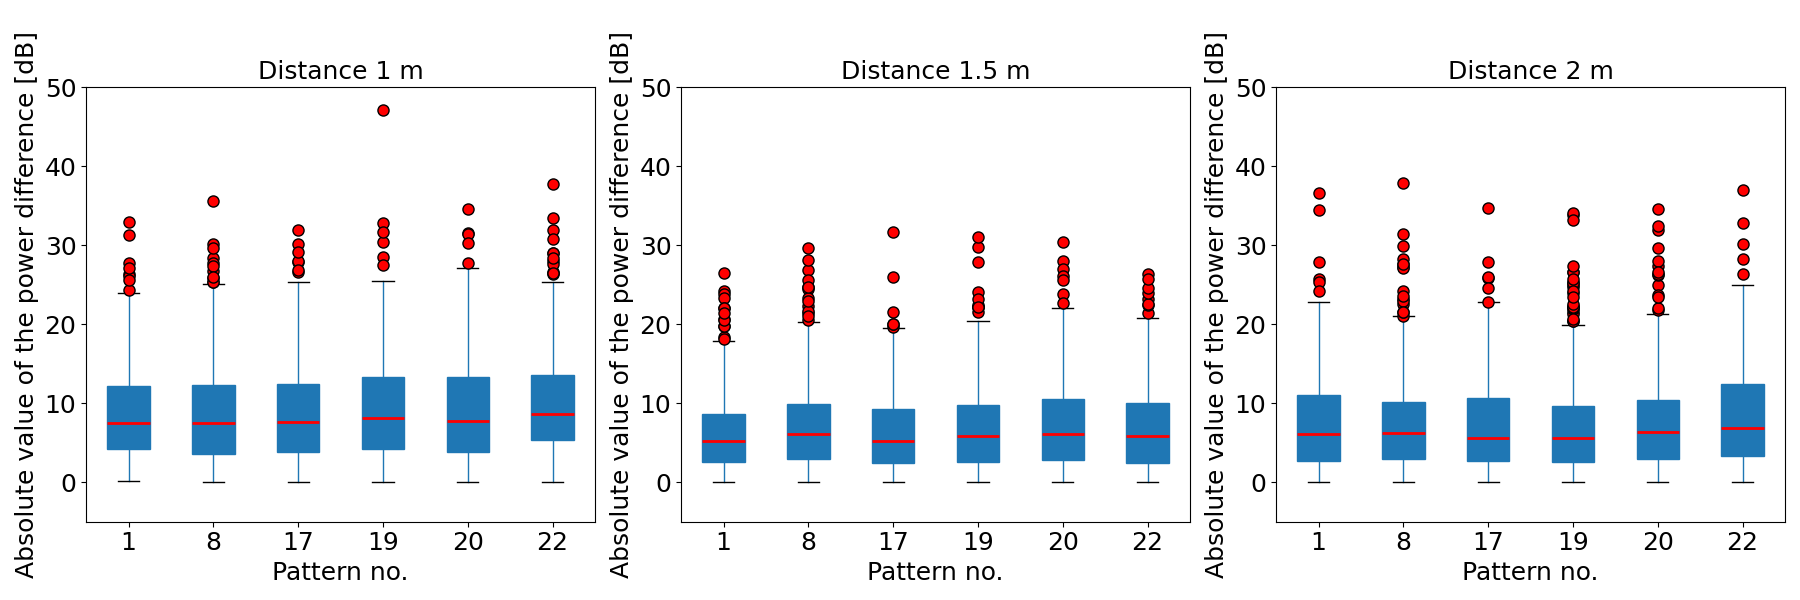
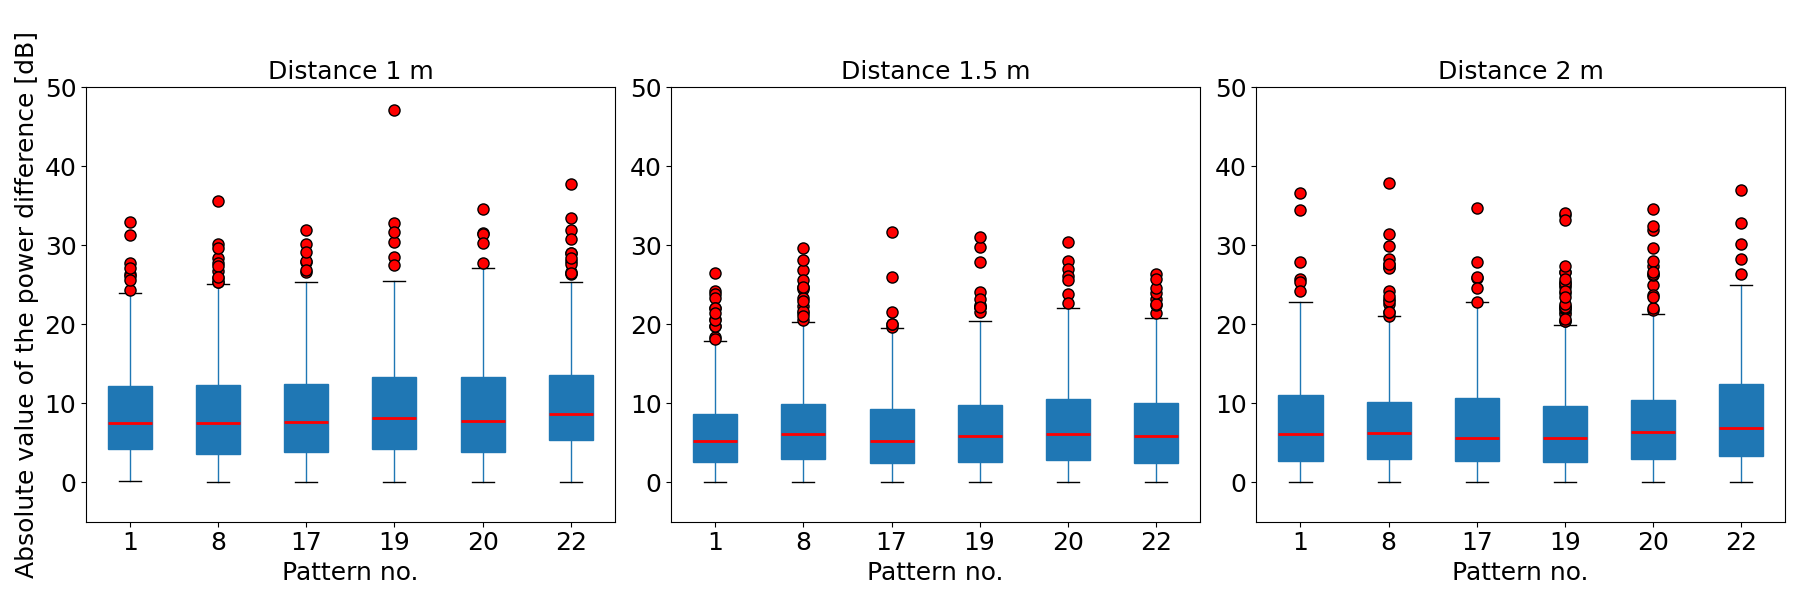
jeszcze bardziej poprawione

diff --git a/Box_Plot/box_plot_merge.py b/Box_Plot/box_plot_merge.py
@@ -60,12 +60,18 @@ def tworz_subploty_wykresow(plik_csv_lista, wybrane_patterny, folder_wynikowy):
             ax.tick_params(axis="x", labelsize=18)  # Czcionka dla osi X
             ax.tick_params(axis="y", labelsize=18)  # Czcionka dla osi Y
 
-            # Dostosowanie {tytułów i etykiet
+            # Dostosowanie tytułów
             ax.set_title(f"{title[i]}", fontsize=18)
             ax.set_xlabel("Pattern no.", fontsize=18)  # Czcionka dla etykiety osi X
-            ax.set_ylabel(
-                "Absolute value of the power difference [dB]", fontsize=18
-            )  # Czcionka dla etykiety osi Y
+
+            # Dodaj opis osi Y tylko do pierwszego subplota
+            if i == 0:
+                ax.set_ylabel(
+                    "Absolute value of the power difference [dB]", fontsize=18
+                )  # Czcionka dla etykiety osi Y
+            else:
+                ax.set_ylabel("")  # Usuń opis osi Y dla pozostałych subplotów
+
             plt.suptitle(f"", fontsize=16)
 
         # Przygotowanie ścieżki zapisu
